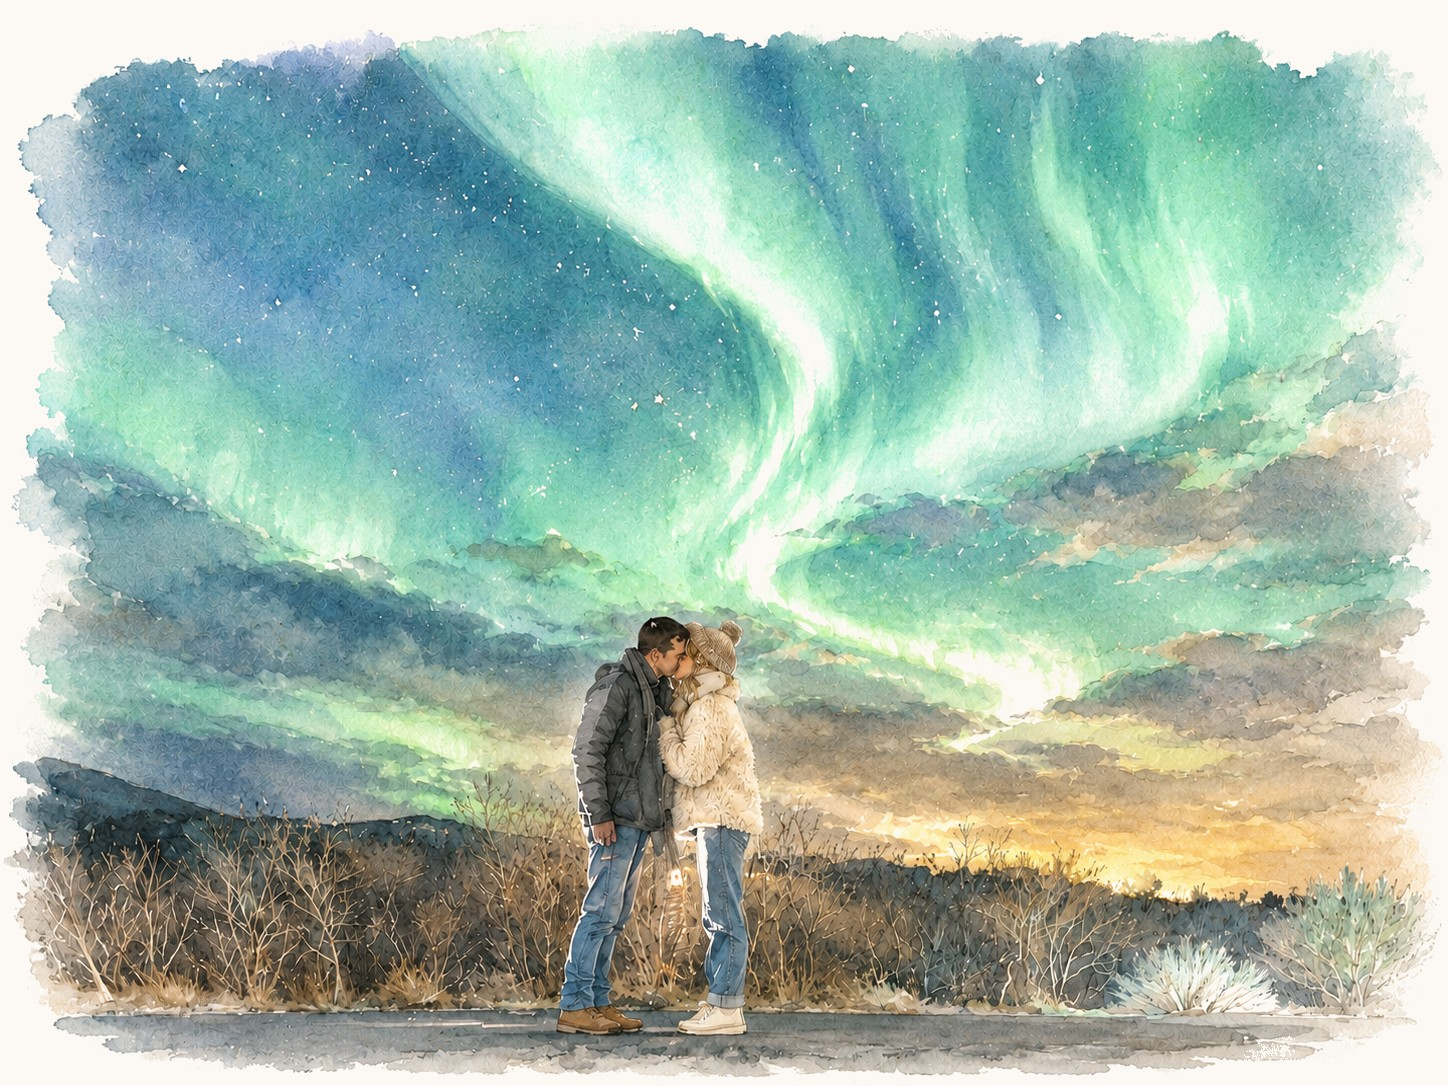
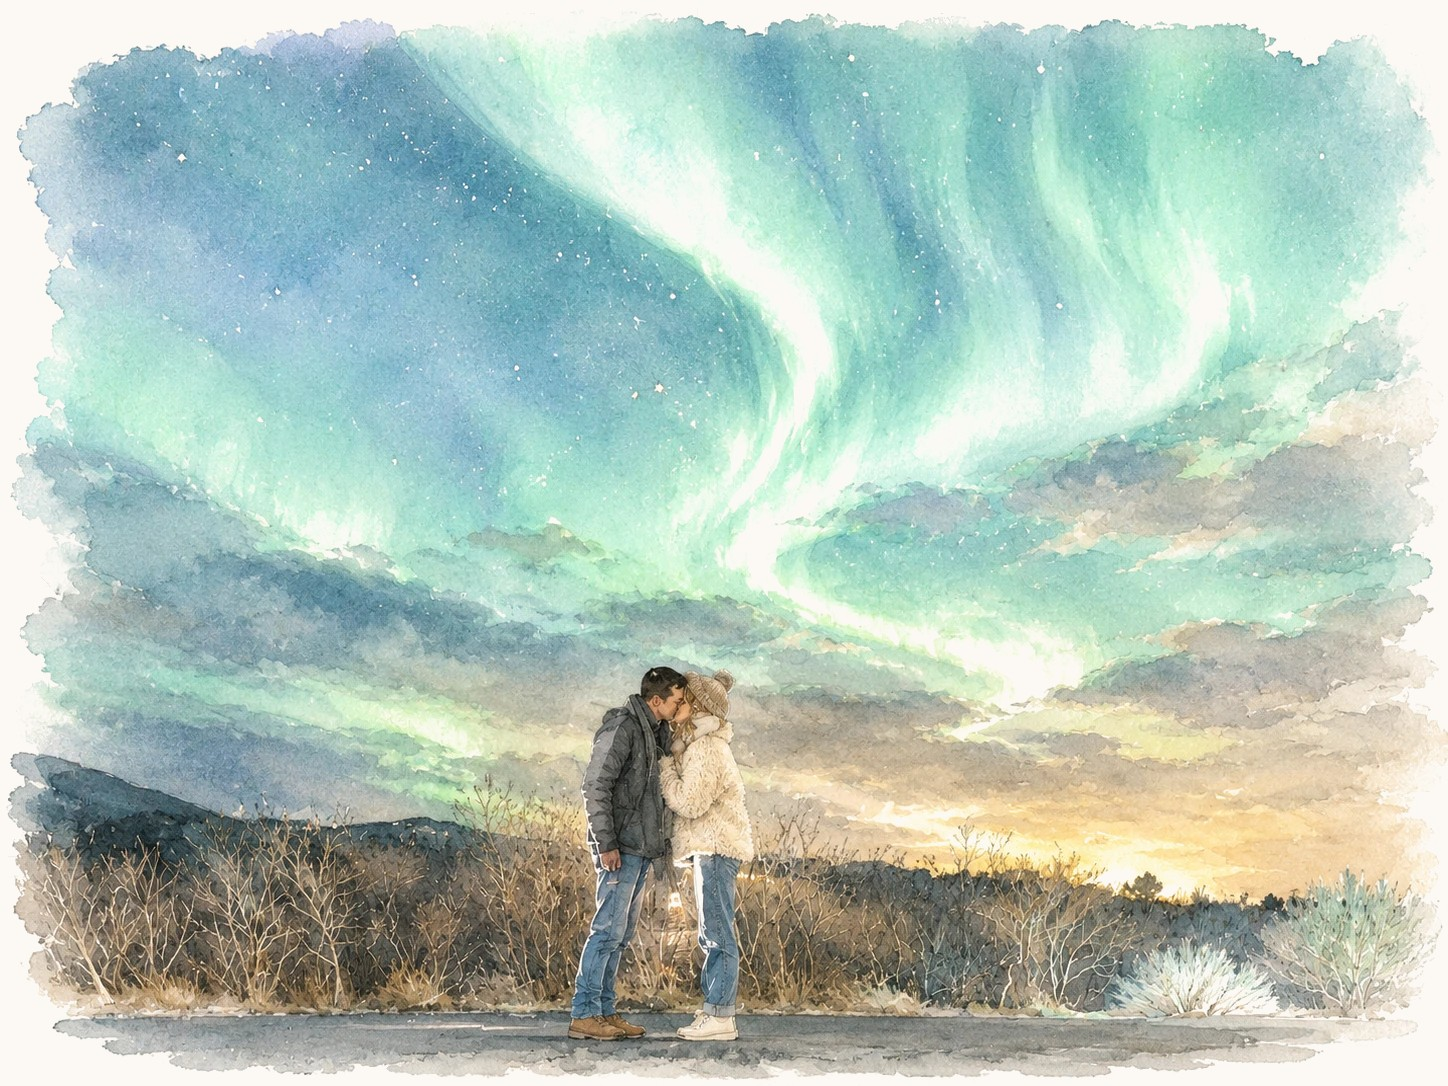
New hero painting on both breakpoints
Transparent edge composited onto the page colour and near-white melted,
so it dissolves on all four sides. Same file serves desktop and mobile.

diff --git a/index.html b/index.html
@@ -9,19 +9,19 @@
   <meta property="og:description" content="Save the date. Promontory Point, Chicago. Find your invitation and RSVP." />
   <meta property="og:type" content="website" />
 
-  <link rel="icon" type="image/png" href="assets/favicon.png?v=177" />
+  <link rel="icon" type="image/png" href="assets/favicon.png?v=178" />
 
   <link rel="preconnect" href="https://fonts.googleapis.com" />
   <link rel="preconnect" href="https://fonts.gstatic.com" crossorigin />
   <link href="https://fonts.googleapis.com/css2?family=Quicksand:wght@300;400;500;600&display=swap" rel="stylesheet" />
 
-  <link rel="stylesheet" href="css/site.css?v=177" />
+  <link rel="stylesheet" href="css/site.css?v=178" />
 
   <script>function photoMissing(img){var b=img.closest('[data-photo]');if(b)b.classList.add('photo--missing');}</script>
-  <script defer src="js/config.js?v=177"></script>
+  <script defer src="js/config.js?v=178"></script>
   <script defer src="https://cdn.jsdelivr.net/npm/@supabase/supabase-js@2"></script>
-  <script defer src="js/site.js?v=177"></script>
-  <script defer src="js/rsvp.js?v=177"></script>
+  <script defer src="js/site.js?v=178"></script>
+  <script defer src="js/rsvp.js?v=178"></script>
 </head>
 <body>
 
@@ -61,7 +61,7 @@
         <span class="hero__amp">&amp;</span>
         <span class="hero__name">Ana</span>
       </h1>
-      <div class="hero__rule" data-enter><span class="ornament--set ornament--set-hero" aria-hidden="true"><i></i><img class="ornament__pug" src="assets/photos/pug-icon.png?v=177" alt="" /><i></i></span></div>
+      <div class="hero__rule" data-enter><span class="ornament--set ornament--set-hero" aria-hidden="true"><i></i><img class="ornament__pug" src="assets/photos/pug-icon.png?v=178" alt="" /><i></i></span></div>
       <p class="hero__date" data-enter>Friday, April 23, 2027</p>
       <p class="hero__place" data-enter>Promontory Point &#183; Chicago</p>
       <div class="countdown" id="countdown" data-enter aria-label="Countdown to the wedding">
@@ -77,7 +77,7 @@
     </div>
 
     <figure class="hero__art">
-      <img data-plx="0.05" data-plx-top src="assets/photos/hero-illustration.jpg?v=177" alt="Watercolor of Austin and Ana kissing beneath the northern lights" />
+      <img data-plx="0.05" data-plx-top src="assets/photos/hero-illustration.jpg?v=178" alt="Watercolor of Austin and Ana kissing beneath the northern lights" />
     </figure>
 
 
@@ -155,7 +155,7 @@
       <ol class="loveline" aria-label="Our story so far">
         <li><span class="loveline__date">Jan 2023</span><i class="loveline__dot"></i><span class="loveline__label">Networked</span></li>
         <li><span class="loveline__date">Mar 2023</span><i class="loveline__dot"></i><span class="loveline__label">Dating</span></li>
-        <li><span class="loveline__date">Jun 2024</span><i class="loveline__dot loveline__dot--pug"><img src="assets/photos/pug-icon.png?v=177" alt="Bobby the pug" /></i><span class="loveline__label">Adopted by Bobby</span></li>
+        <li><span class="loveline__date">Jun 2024</span><i class="loveline__dot loveline__dot--pug"><img src="assets/photos/pug-icon.png?v=178" alt="Bobby the pug" /></i><span class="loveline__label">Adopted by Bobby</span></li>
         <li><span class="loveline__date">Sep 2025</span><i class="loveline__dot"></i><span class="loveline__label">Moved in together</span></li>
         <li><span class="loveline__date">Jan 2026</span><i class="loveline__dot"></i><span class="loveline__label">Engaged</span></li>
         <li><span class="loveline__date">Apr 2027</span><i class="loveline__dot loveline__dot--wed"></i><span class="loveline__label">Married</span></li>
@@ -163,13 +163,13 @@
     </div>
 
     <figure class="story__art story__art--img">
-      <img data-plx="0.07" src="assets/photos/story-illustration.jpg?v=177" alt="Watercolor illustration of Austin and Ana on the lakeshore" loading="lazy" />
+      <img data-plx="0.07" src="assets/photos/story-illustration.jpg?v=178" alt="Watercolor illustration of Austin and Ana on the lakeshore" loading="lazy" />
     </figure>
     <figure class="story__art story__art--video">
-      <video id="storyVideo" data-plx="0.07" poster="assets/photos/story-illustration.jpg?v=177"
+      <video id="storyVideo" data-plx="0.07" poster="assets/photos/story-illustration.jpg?v=178"
         muted loop playsinline preload="auto"
         aria-label="Animated watercolor of Austin and Ana on the lakeshore">
-        <source src="assets/video/story.mp4?v=177" type="video/mp4" />
+        <source src="assets/video/story.mp4?v=178" type="video/mp4" />
       </video>
     </figure>
 
@@ -181,7 +181,7 @@
       <header class="section__head" data-reveal>
         <p class="section__label">April 23, 2027</p>
         <h2 class="section__title">The Day</h2>
-        <span class="ornament ornament--set" aria-hidden="true"><i></i><img class="ornament__pug" src="assets/photos/pug-icon.png?v=177" alt="" /><i></i></span>
+        <span class="ornament ornament--set" aria-hidden="true"><i></i><img class="ornament__pug" src="assets/photos/pug-icon.png?v=178" alt="" /><i></i></span>
       </header>
             <p class="day__note day__note--pto" data-reveal>It's a Friday. Put in for the day off now - we need your full attention.</p>
       <div class="timeline" id="timeline">
@@ -227,10 +227,10 @@
       <header class="section__head" data-reveal>
         <p class="section__label">Where</p>
         <h2 class="section__title">Promontory Point</h2>
-        <span class="ornament ornament--set" aria-hidden="true"><i></i><img class="ornament__pug" src="assets/photos/pug-icon.png?v=177" alt="" /><i></i></span>
+        <span class="ornament ornament--set" aria-hidden="true"><i></i><img class="ornament__pug" src="assets/photos/pug-icon.png?v=178" alt="" /><i></i></span>
       </header>
       <figure class="venue__art" data-reveal>
-        <img data-plx="0.05" src="assets/photos/venue-illustration.jpg?v=177" alt="Watercolor illustration of Promontory Point with the Chicago skyline behind it" loading="lazy" />
+        <img data-plx="0.05" src="assets/photos/venue-illustration.jpg?v=178" alt="Watercolor illustration of Promontory Point with the Chicago skyline behind it" loading="lazy" />
       </figure>
       <div class="venue__grid">
         <div class="venue__info" data-reveal>
@@ -268,7 +268,7 @@
       <header class="section__head" data-reveal>
         <p class="section__label">The vibe</p>
         <h2 class="section__title">Colors of the Day</h2>
-        <span class="ornament ornament--set" aria-hidden="true"><i></i><img class="ornament__pug" src="assets/photos/pug-icon.png?v=177" alt="" /><i></i></span>
+        <span class="ornament ornament--set" aria-hidden="true"><i></i><img class="ornament__pug" src="assets/photos/pug-icon.png?v=178" alt="" /><i></i></span>
       </header>
       <div class="swatches" data-reveal>
         <div class="swatch"><i style="background:#4E5F82"></i><span>Slate</span></div>
@@ -287,13 +287,13 @@
       <header class="section__head" data-reveal>
         <p class="section__label">A few favorites</p>
         <h2 class="section__title">Gallery</h2>
-        <span class="ornament ornament--set" aria-hidden="true"><i></i><img class="ornament__pug" src="assets/photos/pug-icon.png?v=177" alt="" /><i></i></span>
+        <span class="ornament ornament--set" aria-hidden="true"><i></i><img class="ornament__pug" src="assets/photos/pug-icon.png?v=178" alt="" /><i></i></span>
       </header>
       <div class="gallery__grid gallery__grid--four">
-        <figure class="photo photo--real" data-reveal><img src="assets/photos/gallery-1.jpg?v=177" alt="Austin lifting Ana, both laughing, on the shoreline grass at golden hour" loading="lazy" /></figure>
-        <figure class="photo photo--real" data-reveal><img src="assets/photos/gallery-2.jpg?v=177" alt="Austin twirling Ana in the dune grass by the water" loading="lazy" /></figure>
-        <figure class="photo photo--real" data-reveal><img src="assets/photos/gallery-3.jpg?v=177" alt="Austin and Ana dancing close and laughing in golden light" loading="lazy" /></figure>
-        <figure class="photo photo--real" data-reveal><img src="assets/photos/gallery-4.jpg?v=177" alt="Austin and Ana kissing into the setting sun" loading="lazy" /></figure>
+        <figure class="photo photo--real" data-reveal><img src="assets/photos/gallery-1.jpg?v=178" alt="Austin lifting Ana, both laughing, on the shoreline grass at golden hour" loading="lazy" /></figure>
+        <figure class="photo photo--real" data-reveal><img src="assets/photos/gallery-2.jpg?v=178" alt="Austin twirling Ana in the dune grass by the water" loading="lazy" /></figure>
+        <figure class="photo photo--real" data-reveal><img src="assets/photos/gallery-3.jpg?v=178" alt="Austin and Ana dancing close and laughing in golden light" loading="lazy" /></figure>
+        <figure class="photo photo--real" data-reveal><img src="assets/photos/gallery-4.jpg?v=178" alt="Austin and Ana kissing into the setting sun" loading="lazy" /></figure>
       
     </div>
   </section>
@@ -304,7 +304,7 @@
       <header class="section__head" data-reveal>
         <p class="section__label">Good to know</p>
         <h2 class="section__title">Questions</h2>
-        <span class="ornament ornament--set" aria-hidden="true"><i></i><img class="ornament__pug" src="assets/photos/pug-icon.png?v=177" alt="" /><i></i></span>
+        <span class="ornament ornament--set" aria-hidden="true"><i></i><img class="ornament__pug" src="assets/photos/pug-icon.png?v=178" alt="" /><i></i></span>
       </header>
       <div class="faq__list" data-reveal>
         <details class="faq__item"><summary>When should I RSVP?</summary><p>Ideally, the moment you finish reading this sentence. Search your name below and your whole crew appears together. And if your plans change later, tell us ASAP - we would rather redo the seating chart than pay for a ghost's dinner.</p></details>
@@ -324,7 +324,7 @@
       <header class="section__head" data-reveal>
         <p class="section__label">We hope you'll join us</p>
         <h2 class="section__title">RSVP</h2>
-        <span class="ornament ornament--set" aria-hidden="true"><i></i><img class="ornament__pug" src="assets/photos/pug-icon.png?v=177" alt="" /><i></i></span>
+        <span class="ornament ornament--set" aria-hidden="true"><i></i><img class="ornament__pug" src="assets/photos/pug-icon.png?v=178" alt="" /><i></i></span>
         <p class="rsvp__lead">Search your name - or your partner's - to find your invitation. Add your email and phone so reminders and updates reach you.</p>
       </header>
       <div class="rsvp__card" data-reveal>
@@ -344,7 +344,7 @@
 
   <!-- ============ FOOTER ============ -->
   <footer class="footer">
-    <span class="ornament ornament--set ornament--footer" aria-hidden="true"><i></i><img class="ornament__pug" src="assets/photos/pug-icon.png?v=177" alt="" /><i></i></span>
+    <span class="ornament ornament--set ornament--footer" aria-hidden="true"><i></i><img class="ornament__pug" src="assets/photos/pug-icon.png?v=178" alt="" /><i></i></span>
     <p class="footer__names">Austin <span>&amp;</span> Ana</p>
     <p class="footer__date">April 23, 2027 · Promontory Point, Chicago</p>
     <p class="footer__thanks">We can't wait to celebrate with you.</p>
